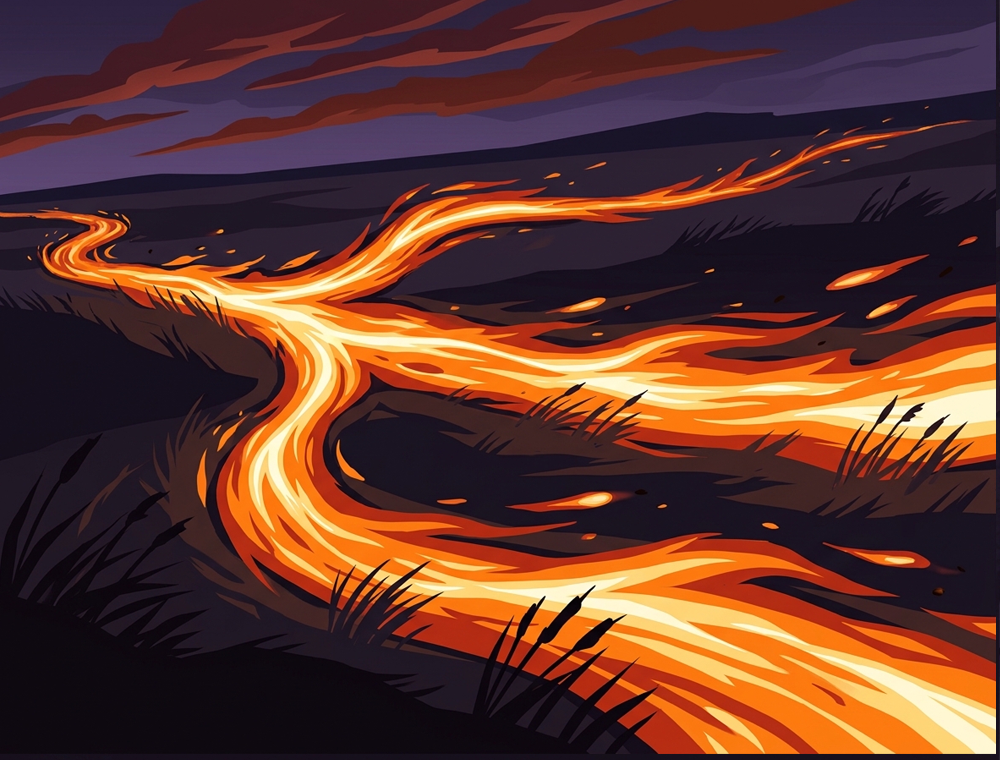
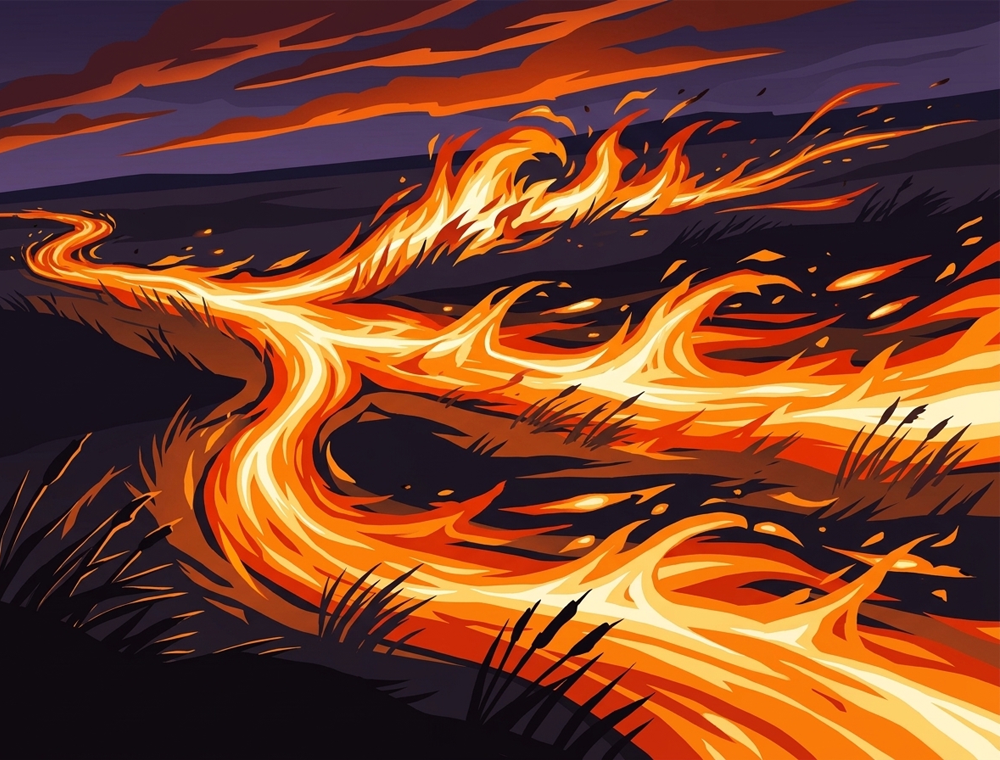
build: v0.6.0（dll 50106163 / pck 5E7A6742）
自动提交于 2026-11-26 15:27，共 3 项变更：
   M docs/design.md
   M src/Wizard/images/cards/WhiteNight.png
   M src/Wizard/images/cards/Wildfire.png

diff --git a/docs/design.md b/docs/design.md
@@ -36,7 +36,7 @@
 
 火刑 - 1 - 罕见 - 能力 回合开始时，给予所有敌人4（5）层燃烧，然后把这个数值增加1。
 
-炽焰术 - 2 - 罕见 - 攻击 造成6（7）点火焰伤害3次，给予3（5）层燃烧。
+炽焰术 - 2 - 罕见 - 攻击 造成7（8）点火焰伤害3次，给予3（5）层燃烧。
 
 高温消毒 - 0 - 罕见 - 技能 移除自身所有负面效果。给予自己1层燃烧。消耗。（升级移除消耗）
 
@@ -189,7 +189,7 @@
 
 薪柴 - 1 - 稀有 - 能力 每当你造成火焰伤害时，将敌人具有的燃烧层数增加1（2）。
 
-流火 - 3 - 罕见 - 攻击 对所有敌人造成6（7）点火焰伤害3次。本场战斗中你每消耗1张牌，这张牌的耗能就减1。
+流火 - 3 - 罕见 - 攻击 对所有敌人造成5（7）点火焰伤害3次。本场战斗中你每消耗1张牌，这张牌的耗能就减1。
 
 灵光 - 0 - 普通 - 攻击 造成5（7）点雷电伤害。你每生成2张卡牌，就把这张牌放入你的手牌。
 
